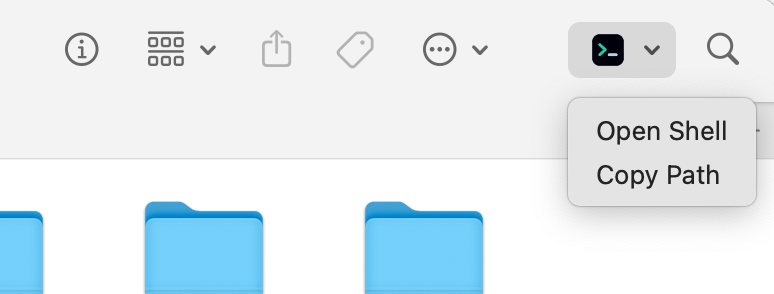
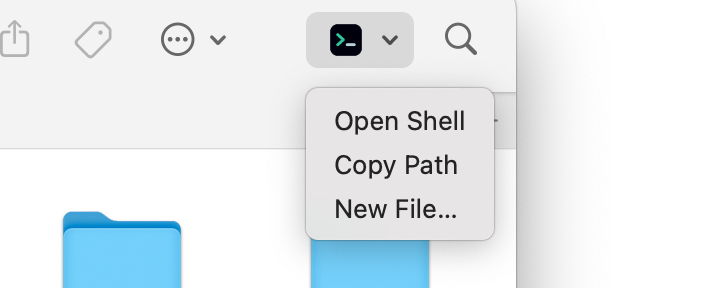
Show the updated Finder menu and New File dialog in the README

diff --git a/README.md b/README.md
@@ -2,11 +2,13 @@
 
 f2s 在 macOS Finder 工具栏中添加一个原生下拉菜单，方便你在当前文件夹打开终端、复制路径或创建文件。
 
-![Finder 工具栏中的 f2s 菜单已展开，显示 Open Shell 和 Copy Path 两个选项](docs/images/finder-toolbar-menu.png)
+![Finder 工具栏中的 f2s 菜单展开后显示 Open Shell、Copy Path 和 New File…](docs/images/finder-toolbar-menu.png)
 
 - **Open Shell** 在当前文件夹打开用户配置的终端，例如 iTerm2 或系统「终端」。新会话使用该终端配置的 shell。
 - **Copy Path** 将当前文件夹的绝对路径以纯文本复制到剪贴板，保留中文、空格和特殊字符。
 - **New File…** 输入完整文件名（例如 `test.txt`、`test.log` 或 `.gitignore`），按回车即可在当前文件夹创建空文件，并在 Finder 中选中它。同名时可以重新输入。
+
+![New File 弹窗显示当前目录、文件名输入框和 Create 按钮](docs/images/new-file-dialog.png)
 
 支持 macOS 11 及以上版本，安装包同时包含 Apple 芯片和 Intel 架构。
 
